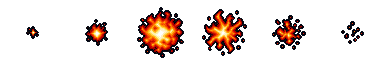
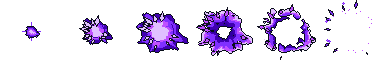
术师弹道改为法术团：重绘 proj_fireball / fx_fire_explode，拖尾与爆炸改紫色；分工协议更新
- art/incoming/proj_fireball.png：紫色法术团彗星，16×16 × 4 帧，规格不变
- art/incoming/fx_fire_explode.png：法术团爆炸，64×64 × 6 帧，规格不变
- game.gd：fire 弹种的拖尾火星、光晕、爆炸兜底圈与火星改为紫色
- data.gd / lore.json：术师文案"火球"改为"法术团"
- AGENTS.md / docs/06：Codex 只负责人物与怪物形象，其余美术由 Claude 在 main 上直接制作

Claude-Session: https://claude.ai/code/session_014omA9zKzx2j1xYAV8ofJXf

diff --git a/AGENTS.md b/AGENTS.md
@@ -2,10 +2,10 @@
 
 Read docs/06_git_collaboration.md before making changes.
 
-- User owns product decisions. Codex owns art; Claude owns gameplay code, integration and builds.
+- User owns product decisions. Codex owns character and monster art (player, allies, NPCs, enemies, bosses: idle / move / attack / feign strips and their portraits). Claude owns gameplay code, integration, builds, and all other art: attack and hit effects (fx_*), projectiles (proj_*), warnings, drone / weapon / evo / skill / relic / growth icons, terrain, props, pickups and UI.
 - Claude uses E:\ArknightsSurvivors on main. Codex uses E:\ArknightsSurvivors\.worktrees\codex-art on codex/art.
 - Worktree convention: .worktrees/ (ignored by Git). Do not change branches in the other agent's directory.
-- Codex art scope: art/incoming/ and art handoff documentation. Claude code scope: game/ and implementation documentation. Coordinate before modifying the other's files.
+- Codex art scope: character and monster files in art/incoming/ (player_*, ally_*, e_*, boss*, bosses/, doctor, merchant, mizuki_*) and their handoff documentation. Claude scope: game/, implementation documentation, and every other file in art/incoming/ (fx_*, proj_*, evo_*, weapon_*, skill_*, relic_*, growth_*, terrain_*, prop_*, tiles, gem_*, chest, oil, jelly, slash, tentacle, drone_*, light). Coordinate before modifying the other's files.
 - Commit only explicitly selected files belonging to your work; never sweep another agent's changes into a commit.
 - Do not discard changes, force-push, reset --hard, or clean the other agent's work.
 - Deliver art with a commit hash and affected paths. Claude reviews then cherry-picks the art commit into main from a clean working tree. If conflicts occur, resolve deliberately; do not overwrite either side wholesale.

diff --git a/docs/06_git_collaboration.md b/docs/06_git_collaboration.md
@@ -4,8 +4,14 @@
 
 | 角色 | 目录 | 分支 | 主要范围 |
 |---|---|---|---|
-| Claude | E:\ArknightsSurvivors | main | game/、接入、测试、构建 |
-| Codex | E:\ArknightsSurvivors\.worktrees\codex-art | codex/art | art/incoming/、美术交接说明 |
+| Claude | E:\ArknightsSurvivors | main | game/、接入、测试、构建；以及人物 / 怪物以外的全部美术（特效、弹道、预警、图标、地形、道具、UI） |
+| Codex | E:\ArknightsSurvivors\.worktrees\codex-art | codex/art | art/incoming/ 中的人物与怪物形象（玩家、援护、NPC、敌人、Boss 的待机 / 移动 / 攻击 / 假死帧条与头像）及其交接说明 |
+
+## 美术分工（2026-09-24 更新）
+
+- Codex 只负责**人物与怪物形象**：`player_*`、`ally_*`、`e_*`、`boss*`、`bosses/`、`doctor`、`merchant`、`mizuki_*`。
+- 其余美术由 Claude 在 main 上直接制作与修改：`fx_*`、`proj_*`、`evo_*`、`weapon_*`、`skill_*`、`relic_*`、`growth_*`、`terrain_*`、`prop_*`、`tiles`、掉落物、`slash`、`tentacle`、`drone_*`、`light` 等。这些文件 Codex 不要改；Codex `git merge main` 时照单全收即可。
+- 如果一张图同时涉及两边（例如怪物攻击帧里带弹道），先由用户裁定归属。
 
 两个工作目录共享本地 Git 提交历史，但文件各自独立。Codex 在美术目录修改不会立刻改变原目录里的游戏。不要在另一个代理的工作目录切换分支。
 
